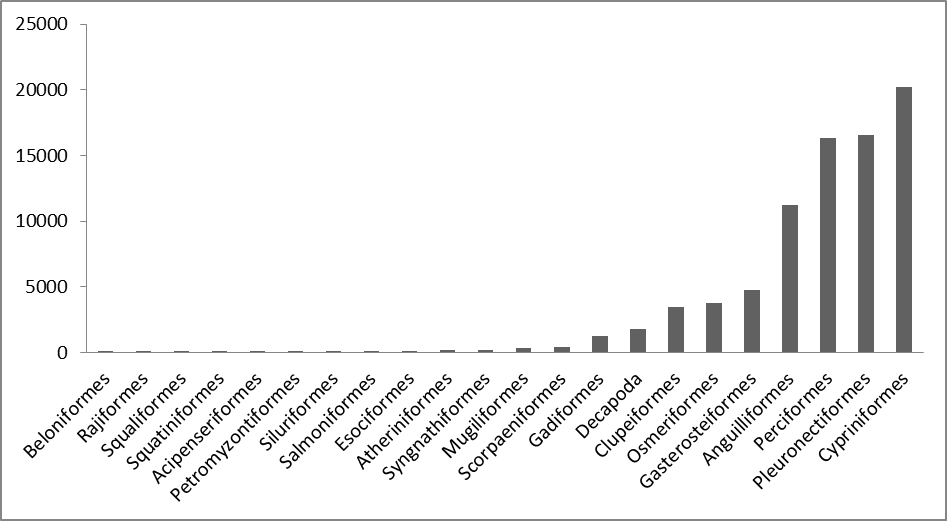
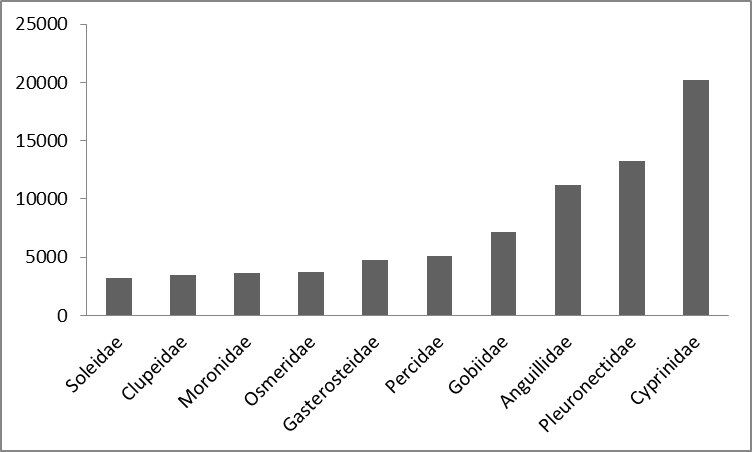
change name Images 4

diff --git a/VIS-occurrences-paper.md b/VIS-occurrences-paper.md
@@ -92,22 +92,26 @@ The Estuary dataset contains 116 fish species found in the estuaries of the Rive
 
 **Family**: *Anguillidae, Atherinidae, Centrarchidae, Clariidae, Clupeidae, Cobitidae, Cottidae, Cyprinidae, Esocidae, Gadidae, Gasterosteidae, Gobiidae, Ictaluridae, Lotidae, Moronidae, Mugilidae, Nemacheilidae, Osmeridae, Percidae, Petromyzontidae, Pleuronectidae, Salmonidae, Scophthalmidae, Siluridae, Soleidae, Umbridae* 
 
+![Figure 3](images/image_3.png)
+
+*Figure 3: Taxonomic coverage; 10 most occuring families in the estuarine dataset*
+
+
 **Class**: *Cephalaspidomorphi* **Order**: *Petromyzontiformes*
 **Family**: *Petromyzontidae* 
 
 **Class**: *Malacostraca* **Order**:*Decapoda*
 **Family**:*Atyidae,Cambaridae, Palaemonidae, Varunidae*
 
-![Figure 3](images/image_3.png)
+![Figure 3a](images/image_3a.png)
 
-*Figure 3: Taxonomic coverage: orders on number of occurrences*
-
-![Figure 3log](images/image_3log.png)
-*Figure 3b Taxonomic coverage:orders on number of occurrences; log scale*
-
+*Figure 3a: Taxonomic coverage: orders on number of occurrences*
 
 ![Figure 3b](images/image_3b.png)
-*Figure 3c Taxonomic coverage; 10 most occuring families in the estuarine dataset*
+*Figure 3b: Taxonomic coverage:orders on number of occurrences; log scale*
+
+
+
 
 ## Estuary occurrences
 
@@ -119,6 +123,9 @@ The Estuary dataset contains 116 fish species found in the estuaries of the Rive
 
 **Family**:*Acipenseridae, Agonidae, Ammodytidae, Anguillidae, Atherinidae, Belonidae, Blenniidae, Bothidae, Callionymidae,  Centrarchidae, Clupeidae, Cobitidae, Congridae, Cottidae, Cyclopteridae, Cyprinidae, Engraulidae, Esocidae, Gadidae, Gasterosteidae, Gobiidae, Ictaluridae, Liparidae, Lotidae, Moronidae, Mugilidae, Mullidae, Nemacheilidae, Smeridae, Percidae, Petromyzontidae, Pholidae, Pleuronectidae,Polybiidae, Salmonidae, Sciaenidae, Scombridae, Scophthalmidae, Siluridae, Soleidae, Syngnathidae, Trachinidae, Triglidae, Umbridae, Zoarcidae* 
 
+![Figure 4](images/image_4.png)
+
+*Figure 4: Taxonomic coverage; 10 most occuring families in the estuarine dataset*
 
 **CLass**:*Chondrichthyes*
 **Order**:*Rajiformes, Squaliformes, Squatiniformes*   
@@ -134,19 +141,18 @@ The Estuary dataset contains 116 fish species found in the estuaries of the Rive
 **Order**:*Decapoda*
 **Family**:*Cambaridae, Cancridae, Crangonidae, Paguridae, Palaemonidae, Polybiidae, Portunidae, Varunidae*
 
-![Figure 4](images/image_4.png)
-*Taxonomic coverage:orders*
+![Figure 4a](images/image_4a.png)
+
+*Figure 4a: Taxonomic coverage: orders on number of occurrences*
 
 
-![Figure 4log](images/image_4log.png)
+![Figure 4b](images/image_4b.png)
 
-*Taxonomic coverage:orders; log scale*
+*Figure 4b: Taxonomic coverage:orders on number of occurrences; log scale*
 
 
 
-![Figure 5](images/image_5.png)
 
-*Taxonomic coverage; 10 most occuring families in the estuarine dataset*
 
 
 ## Geographic coverage
